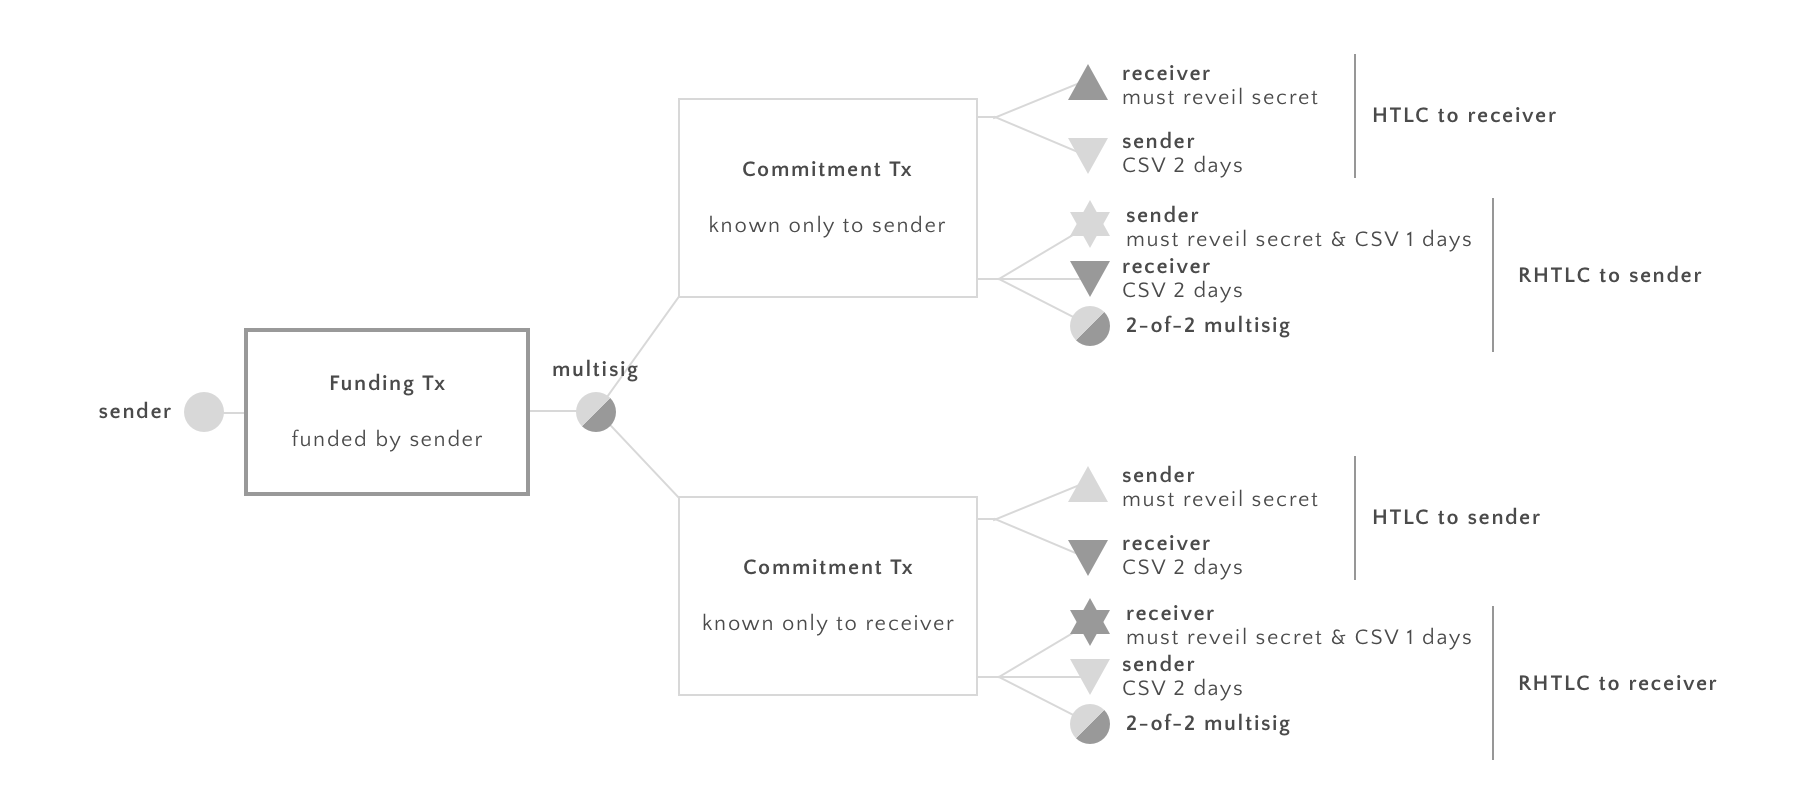
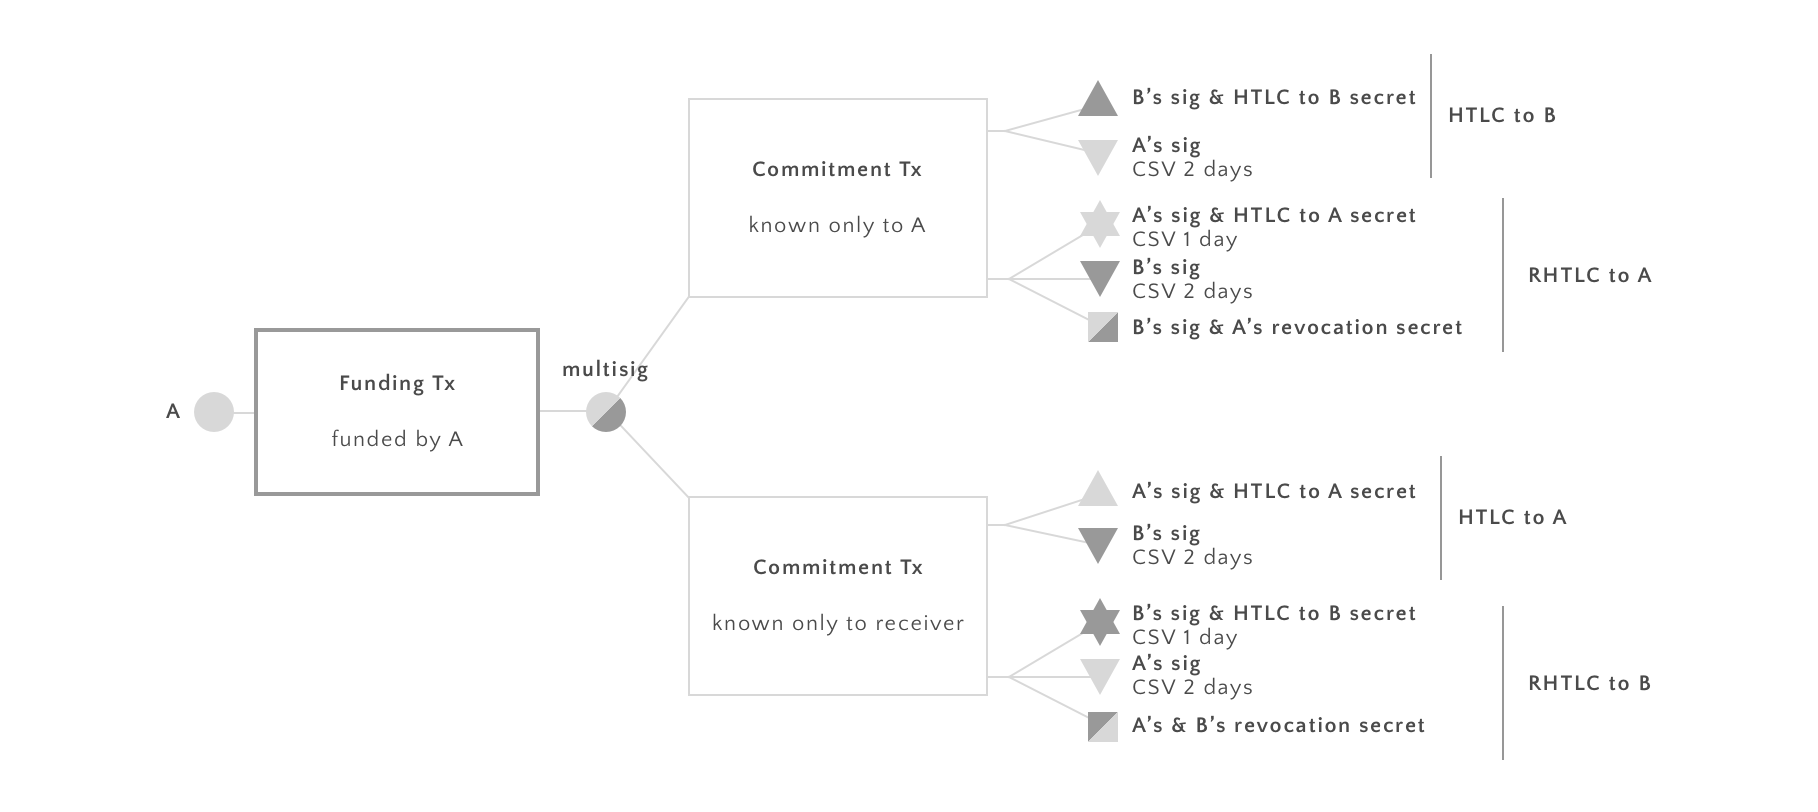
added security property to writeup

diff --git a/docs/yours_lightning_03.md b/docs/yours_lightning_03.md
@@ -1,89 +1,120 @@
 # Yours Lightning
 
-We describe how 2-way hash time locked contracts (HTLCs) can be built. 
+We describe how 2-way *hash time locked contracts* (HTLCs) can be built. Our construction is not subject to transaction malleability and uses only OP_CHECKSEQUENCEVERIFY (CSV) and opcodes that are active in Bitcoin script today.
 
-## Scripts
+## Smart contracts
 
 We will need two kinds of smart contracts: HTLCs and revokable HTLCs.
 
 ### HTLCs
 
-A HTLC expresses the following:
+A HTLC between Alice (A) and Bob (B) expresses the following:
 
-> An output can be spent by Alice if she can present a secret immediately, or by Bob after two days
+> An output can be spent by B if he can present a secret immediately, or by A after two days
 
 This can be encoded by the following output script
 
 	OP_IF
-		<Alice's pub key> CHECKSIGVERIFY
+		<B's pub key> CHECKSIGVERIFY
 		OP HASH160 <Hash160 (secret)> OP_EQUALVERIFY 
 	OP_ELSE
 		<2 days> CHECKSEQUENCEVERIFY DROP
-		<Bob's pub key> CHECKSIGVERIFY
+		<A's pub key> CHECKSIGVERIFY
 	OP_ENDIF
 	
 ### Revocable HTLCs
 
 Revocable Sequence Maturity Contract (RSMC) are a technique to make outputs revokable by revealing a private key [1]. We apply this technique to HTLCs. 
 
-A revocable HTLC (RHTLC) is a smart contract that expresses:
+A revocable HTLC (RHTLC) between A and B is a smart contract that expresses:
 
-> An output can be spend by whomever knows both Alice's and Bob's private key immediately, or by Alice after a day if she knows a secret, or by Bob after two days.
+> An output can be spend by B if he knows A's revocation secret, or after one day if B knows the HTLC secret, or by A after 2 days.
 
 In Bitcoin script this looks something like this:
 
 	OP_IF
-		<Alice's pub key> <Bob pub key> 2 CHECKMULTISIG
+		<B's pub key> CHECKSIGVERIFY
+		OP HASH160 <Hash160 (A's revocation secret)> OP_EQUALVERIFY 
 	OP_ELSE
 		OP_IF
 			<2 days> CHECKSEQUENCEVERIFY OP_DROP
-			<Alice's pub key> CHECKSIGVERIFY
-			OP HASH160 <Hash160 (s)> OP_EQUALVERIFY 
+			<A's pub key> CHECKSIGVERIFY
+			OP HASH160 <Hash160 (HTLC secret)> OP_EQUALVERIFY 
 		OP_ELSE
 			<2 days> CHECKSEQUENCEVERIFY OP_DROP
-			<Bob's pub key> CHECKSIGVERIFY
+			<A's pub key> CHECKSIGVERIFY
 		OP_ENDIF	
 	OP_ENDIF
 
 ## Transactions
 
-The sender and the receiver exchange the following transactions.
+Alice (A) and Bob (B) exchange the following transactions.
 
 ![alt text](./img/2-way-rhtlc.png "2-way-rhtlc.png")
 
-Note that each party can revoke their own HTLC but not the other parties.
+Each commitment transaction maintains two HTLCs, one for each direction. Note that each party can revoke their own HTLC but not the other parties.
 
 ## Protocols
 
-For the moment we assume that only one party funds the channel. An elegant one that I'd have to discuss with Ryan, and the other one
+As there are inherent malleability problems if two parties fund a payment channel, we use a version where ony one party funds.
 
 ### Creating the payment
 
-**1. Sender generates fresh key pair.** He then sends the public key to receiver and stores the private key. He will later use this private key to revoke a transaction.
+**1. Alice generates a new revocation secret.** She then sends the hash of the secret to Bob. She will later use the revocation secret to revoke the commitment transaction she is in the process of creating when she wants to make another one after that.
 
-**2. Receiver generates fresh key pair.** He also sends the public key to sender and stores the private key to be able to revoke later.
+**2. Bob generates a new revocation secret.** He sends its hash to Alice. As above this will allow Bob to revoke this transaction later.
 
-**3. Sender builds transaction.** Sender builds the transaction labelled "known only to receiver" above. He uses the public key obtained from receiver in step 2. to generate the multisig output in the script labelled "RHTLC to receiver" above. Sender does not need to use a fresh key pair to create this multisig. He signs the transaction and sends it to receiver.
+**3. Alice builds a commitment transaction.** Alice builds the transaction labelled "known only to Bob" above. She uses the revocation secret obtained from Bob in step 2. She signs the transaction and sends it to Bob.
 
-**4. Receiver builds transactions.** If receiver wants to accept the payment, he will build the transaction labelled "known only to sender" above. He uses the public key obtained from sender in step 1. He then signs it and sends it back to sender.
+**4. Bob builds a commitment transaction.** If Bob wants to accept the payment, he will build the transaction labelled "known only to Alice" above. He uses the revocation secret obtained from Alice in step 1. He then signs it and sends it back to Alice.
 
-**5. Sender revokes.** To revoke the previous payment, sender sends the private key generated in step 1 to sender.
+**5. Alice revokes.** To revoke the previous payment, Alice sends her revocation secret from the last commitment transaction to Bob.
 
-**6. Receiver revokes.** Symmetrically, receiver sends sender the private key generated in step 2.
+**6. Bob revokes.** Symmetrically, Bob sends Alice his revocation secret from the last commitment transaction.
 
 ### Funding the channel
 
-We describe the version where only sender funds the channel.
+We describe the version where only Alice funds the channel.
 
-**1. Creating the multisig.** Sender sends a public key to receiver, receiver created a public key himself, creates a multisig address, and sends it back to sender
+**1. Creating the multisig.** Alice sends a public key to Bob, Bob created a public key himself, creates a multisig address, and sends it back to Alice
 
-**2. Creating a funding transactions.** Sender creates a transaction that spends to that multisig address. Does not broadcast it though.
+**2. Creating a funding transactions.** Alice creates a transaction that spends to the new multisig address. Does not broadcast it yet.
 
-**3. Creating a refund transaction.** Sender and receiver go through the protocol described above for creating a payment. The payment is such that the entire amount that was funded is credited back to sender. 
+**3. Creating a refund transaction.** Alice and Bob go through the protocol described above for creating a payment. The payment is such that the entire amount that was funded is credited to Alice. 
 
-**4. Broadcast the funding transactions.** When the refund transaction is created and distributed between the two players, the sender broadcasts the funding transaction. The channel is open when the funding transaction is confirmed into the blockchain.
+**4. Broadcast the funding transactions.** When the refund transaction is created and distributed between the two parties, Alice broadcasts the funding transaction. The channel is open when the funding transaction is confirmed into the blockchain.
 
 Note that when the first "real" payment is sent, the funding transaction is invalidated as described in the section above.
+
+### Closing the channel
+
+Either party can broadcast their most recent commitment transaction to the blochain. This closes the channel
+
+## Security Properties
+
+In the following we assume that both Alice and Bob are malicious but rational. That is, they look after their own self interest only and try to steal funds whenever possibel, but they will not harm themselves.
+
+_**Property 1.** Assume that from the last payment, both parties have transactions as in the picture above. If they execute the protocoll "Sending a payment", then their balance is as specified by the commitment transactions. Either party can force the other to reveil their HTLC secret within two days._
+
+We check that Property 2 holds true after each step of the protocol. 
+
+Steps 1 and 2 are not critical as the only information that gets exchanged are hashes of revocation secrets that have not been used yet. 
+
+After step 3 Bob can sign and broadcast the commitment transaction to the blockchain. In this case Bob is forced to spend the output labelled "HTLC to Bob" output within two days while Alices branch of that output is blocked by a CSV lock. If he does not, then Alice will spend that output. If Bob spends that output then he reveils his HTLC secret to Alice.
+
+Step 4 is completely symmetric to step 3. The same reasonoing applies.
+
+Note that up to this point, Alice and Bob can still broadcast the commitment transaction from the last round. This is particularly enticing for the party that had a higher balance in the last round (essentially the "sender" of this round). Note that however in that case the receiver will eventually reveil the secret for the last payment, not the current one. Thus the "sender" cannot claim to have made the last payment.
+
+Step 5. This is where Alice sends her revocation secret to Bob. This guarantys to Bob that Alice will not broadcast a previous transaction anymore. To understand why assume that she would. In this case an old version of the transaction "known only to Alice" is broadcast to the blockchain. If that happens, Bob can claim both outputs. He can clearly claim the top output (HTLC to Bob) by reveiling an old HTLC secret. He can also claim the second output using the Alice's revocation secret (either the one she just reveiled or one reveilled in a previous round) and his own private key. Note that if Alice cheats in this way, she looses not only a payment but the entire amount used to fund the channel.
+
+Step 6 is symmetric to step 5 and the same reasoning applies.
+
+<!--
+_**Property 2.** While executing the "funding the channel" protocoll as described above, neither party can steal the other parties funds. This is true in the presence of transaction malleability._
+
+Again, we check that Property 2 holds true after each step of the protocol. Step 1 is completely uncritical because only public keys are exchanged and a new address is creates. So is step 2 because Alice does not broadcast the funding transaction yet. TODO use Property 1 here.
+-->
 
 ## References 
 
